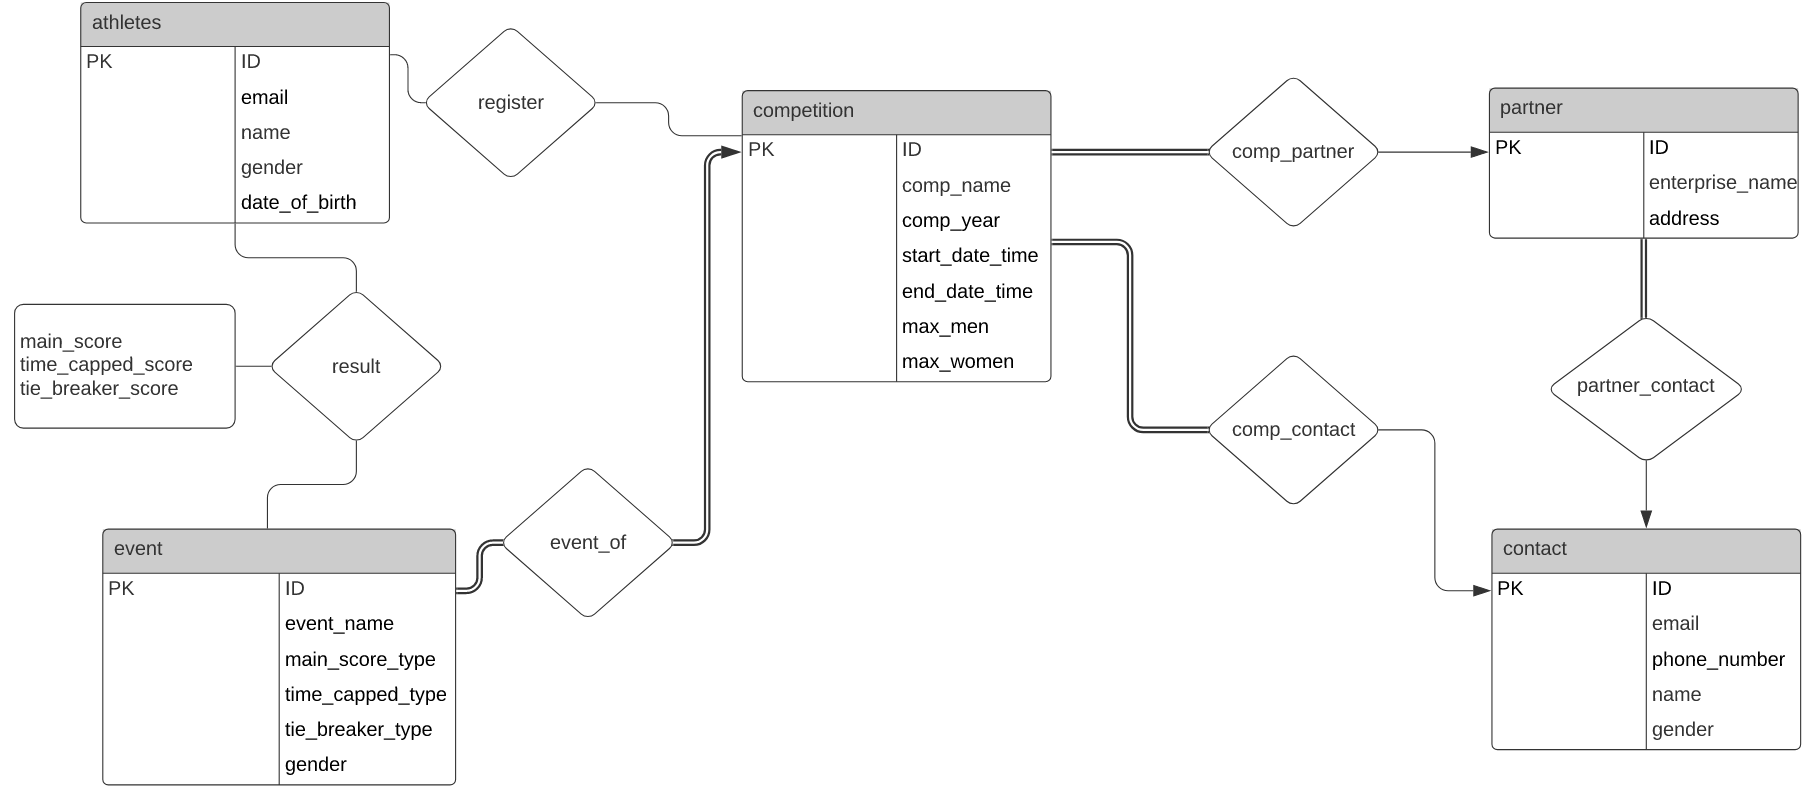
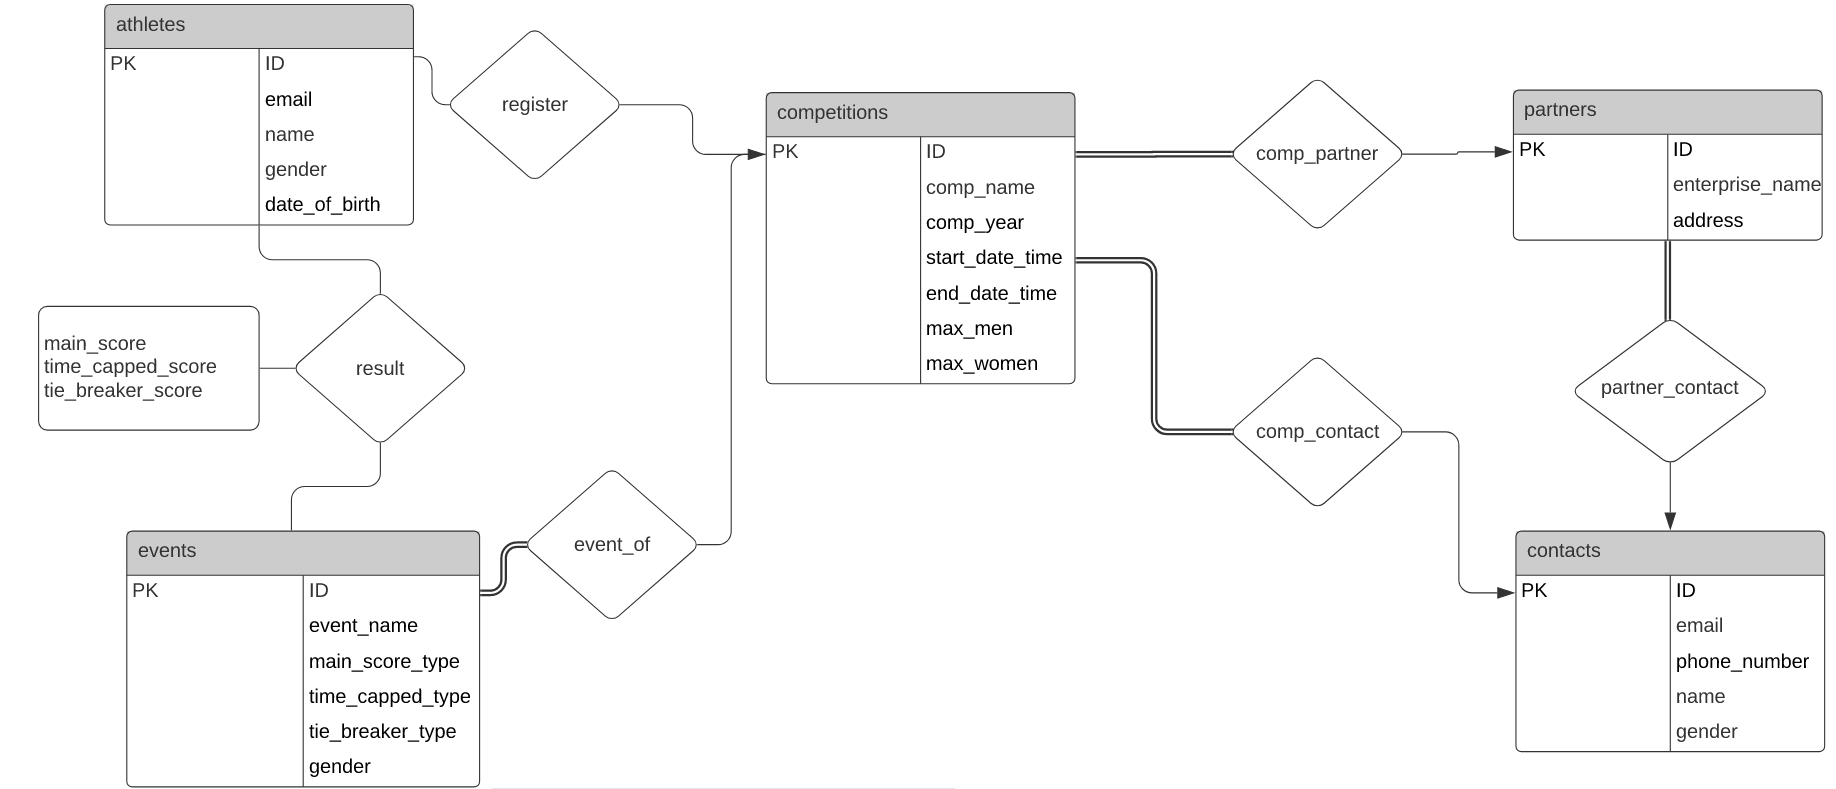
Updated diagrams, schema and added migrations

diff --git a/phpapp/site.php b/phpapp/site.php
@@ -1,7 +1,7 @@
 <?php
 function sql($sql, $dbconn = null)
 {
-  $dbconn = pg_connect("host=localhost port=5432 dbname=postgres user=postgres password=postgres");
+  $dbconn = pg_connect("host=localhost port=5432 dbname=competitions user=postgres password=postgres");
   $result = pg_query($dbconn, $sql);
   return pg_fetch_all($result);
 }
@@ -15,4 +15,3 @@ echo "</pre>";
 echo "<pre>";
 print_r($competitions);
 echo "</pre>";
-
